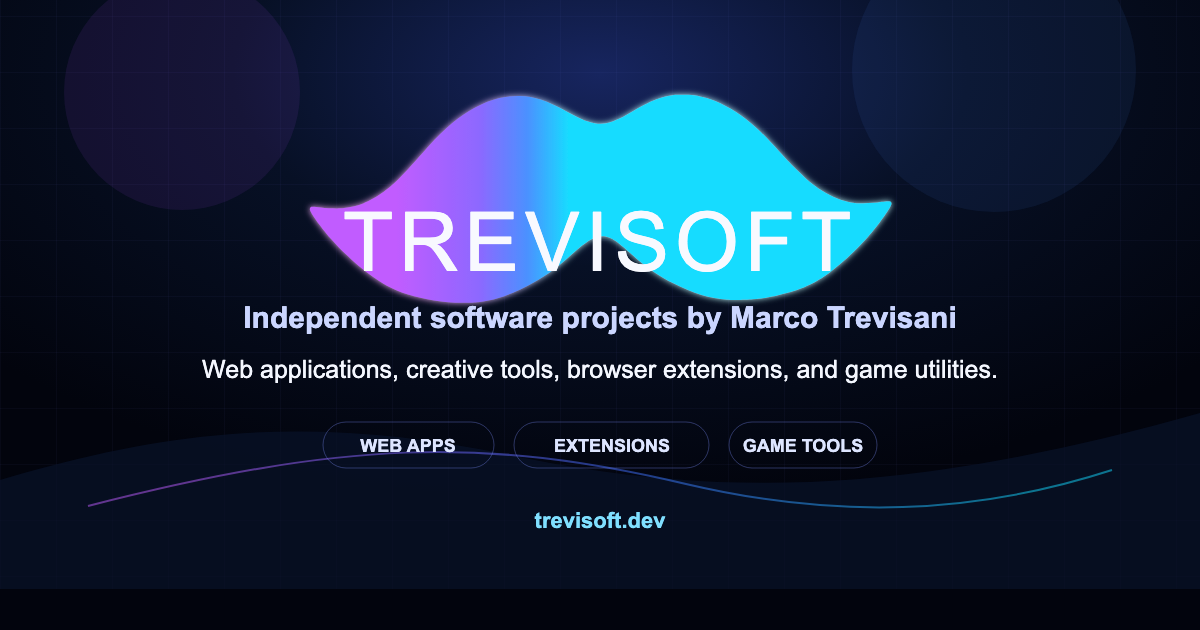
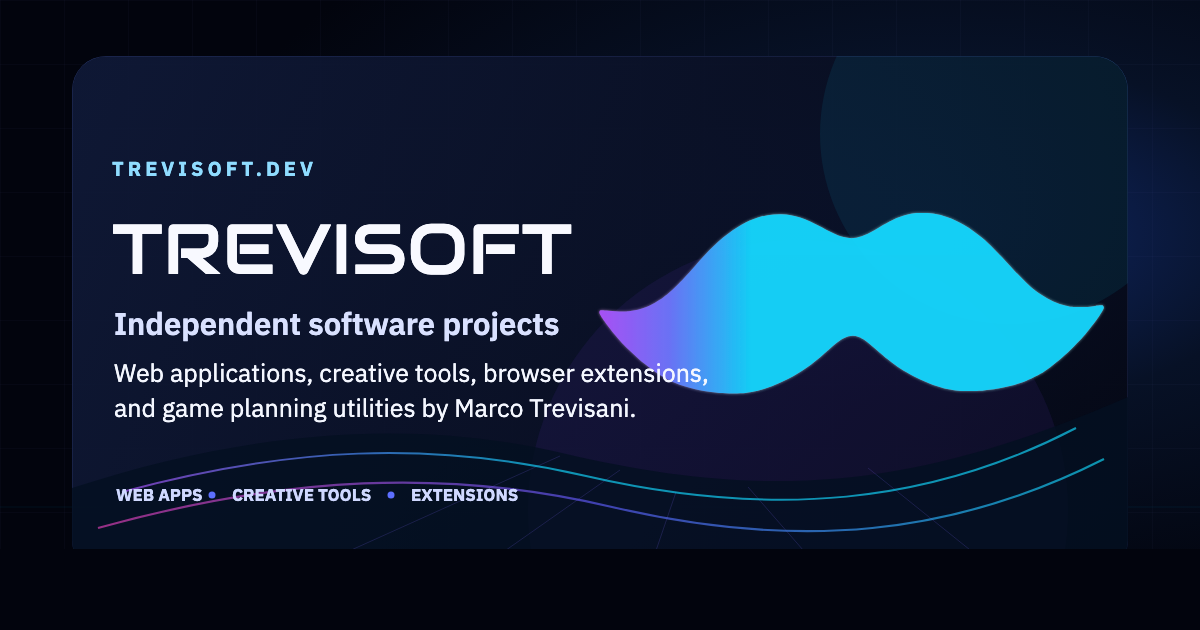
fix: refine social preview artwork

diff --git a/index.html b/index.html
@@ -42,7 +42,7 @@
     <meta property="og:image:height" content="630" />
     <meta
       property="og:image:alt"
-      content="Trevisoft neon moustache logo with the text Side projects by Marco Trevisani."
+      content="Trevisoft social preview with a neon moustache brand mark and independent software projects by Marco Trevisani."
     />
     <meta name="twitter:card" content="summary_large_image" />
     <meta name="twitter:title" content="Trevisoft | Side Projects by Marco Trevisani" />
@@ -53,7 +53,7 @@
     <meta name="twitter:image" content="https://trevisoft.dev/og/trevisoft-og.png" />
     <meta
       name="twitter:image:alt"
-      content="Trevisoft neon moustache logo with the text Side projects by Marco Trevisani."
+      content="Trevisoft social preview with a neon moustache brand mark and independent software projects by Marco Trevisani."
     />
     <script type="application/ld+json">
       {
